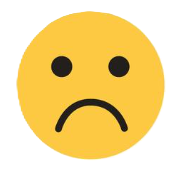
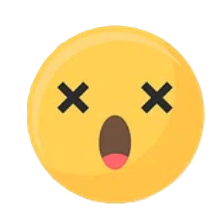
Second Draft
Fixed basic game bugs
Added mine count
Randomized mine placement

diff --git a/js/game.js b/js/game.js
@@ -4,12 +4,15 @@ var gDifficulties = [4, 8, 12]
 
 const MINE = '💣'
 const FLAG = '🏴☠'
+const LIFE = '💖'
 
-var gCellCount
+var gLivesCount
+var gMineCount
 
 // timer
 var gInterval
 var gStartTime
+var gIsRun
 
 var gLevel = {
     SIZE: gDifficulties[0],
@@ -18,6 +21,9 @@ var gLevel = {
 
 var gBoard
 var gGame
+const START_IMG = 'img/start.png'
+const LOSE_IMG = 'img/lose.png'
+const WIN_IMG = 'img/win.png'
 
 // Todo's:
 //need to find a boolean to define the startTimer
@@ -32,8 +38,10 @@ var gGame
 // add lives icon for starters
 
 function onInit() {
-    resetTimer()
-    console.log('Hi');
+    // console.log('Hi');
+    gLivesCount = 3
+    clearInterval(gInterval)
+    gMineCount = 0
     gGame = {
         isOn: true,
         shownCount: 0,
@@ -45,9 +53,27 @@ function onInit() {
 
     console.log('gBoard:', gBoard)
 
+    resetTimer()
 }
 
+// function onRestartGame() {
+//     // gLevel = {
+//     //     SIZE: gDifficulties[0],
+//     //     MINES: 2,
+//     // }
+//     gGame = {
+//         isOn: true,
+//         shownCount: 0,
+//         markedCount: 0,
+//         secsPassed: 0
+//     }
+//     gBoard = buildBoard(gLevel.SIZE)
+//     renderBoard(gBoard)
 
+//     console.log('gBoard:', gBoard)
+
+//     resetTimer()
+// }
 
 function buildBoard(size) {
     var board = []
@@ -62,44 +88,69 @@ function buildBoard(size) {
             }
         }
     }
-    placeMines(board)
-    // board[0][0].isMine = true
-    // board[3][3].isMine = true
+    for (var i = 0; i < gLevel.MINES; i++) {
+        // setTimeout((onCellClicked)=> placeMines(board)
+        // ,100)
+
+        placeMines(board)
+        updateMineCount(1)
+        
+        
+    }
+    updateLivesCount(0)
+
     return board
 }
 
 function placeMines(board) {
-    board[0][0].isMine = true
-    board[board.length - 1][board[0].length - 1].isMine = true
+    var randCell = getRandEmptyCell(board)
+
+    board[randCell.i][randCell.j].isMine = true
+    // board[0][0].isMine = true
 }
 
+
 function onCellClicked(elCell, i, j) {
+    // console.log('elCell:', elCell)
+    if (!gGame.isOn) return
+
     var cell = gBoard[i][j]
     var count = countNeighborMines(i, j, gBoard)
 
-    if (cell !== MINE) {
+    //Changing classname after clicking on cell:
+    // var className = cell.isMine ? 'mined' : 'safe'
+    // elCell.classList.remove('hidden')
+    // elCell.classList.add(className)
+    getClassName(elCell, cell)
+
+    //Starting the timer:
+    gIsRun = true
+    if (gIsRun) {
         startTimer()
-    } else if (cell === gCellCount) {
-        // clearInterval(gInterval)
+    } else {
+        gIsRun = false
+        clearTimeout(gInterval)
     }
 
-    elCell.classList.remove('hidden')
     if (!cell.isShown) {
         cell.isShown = true
         if (cell.isMine) {
+            updateLivesCount(-1)
+            console.log('gLivesCount',gLivesCount);
+            
             console.log('Game Over')
+            //Updating the Dom
             elCell.innerText = MINE
             gGame.isOn = false
-            return
+            document.querySelector('img').src = LOSE_IMG
         } else {
             console.log('count:', count)
             elCell.innerText = (count > 0) ? count : ''
+            openNeighbourCells(i, j)
             // renderBoard(gBoard)
         }
 
     }
-
-
 
 }
 
@@ -112,7 +163,7 @@ function onPlantFlag(ev) {
 }
 
 
-function blowUpNeighbors(cellI, cellJ) {
+function openNeighbourCells(cellI, cellJ) {
 
     for (var i = cellI - 1; i <= cellI + 1; i++) {
         if (i < 0 || i >= gBoard.length) continue
@@ -120,13 +171,32 @@ function blowUpNeighbors(cellI, cellJ) {
             if (i === cellI && j === cellJ) continue
             if (j < 0 || j >= gBoard[i].length) continue
             //Model
-            gBoard[i][j] = ''
+            if (!gBoard[i][j].isMine) {
 
-            //Dom
-            var elCell = renderCell(i, j, '')
-            elCell.classList.remove('.hidden')
+                gBoard[i][j].isShown = true
+
+                //Dom
+                var elCell = document.querySelector(`.cell-${i}-${j}`)
+                getClassName(elCell, gBoard[i][j])
+
+            }
         }
     }
+}
+
+function updateMineCount(diff) {
+    // if()
+    gMineCount += diff
+    document.querySelector('.mines').innerText = gMineCount
+}
+
+function updateLivesCount(diff) {
+    for (var i = 0; i < gLivesCount; i++) {
+        document.querySelector('.lives').innerText += LIFE
+        
+    }
+    gLivesCount += diff
+    // return gLivesCount
 }
 
 // function onCellMarked(coords) {
@@ -141,12 +211,18 @@ function blowUpNeighbors(cellI, cellJ) {
 // }
 
 function onDifficultyClick(elBtn) {
-    var cellCount = gDifficulties[elBtn.dataset.idx]
+    var difficulty = gDifficulties[elBtn.dataset.idx]
     elBtn.classList.add('clicked')
-    gBoard = buildBoard(cellCount)
+    gLevel.SIZE = difficulty
+    gLevel.MINES = difficulty / 2
+    gBoard = buildBoard(gLevel.SIZE)
     renderBoard(gBoard)
 
-    // onInit()
+    onInit()
 }
 
-
+function getClassName(elCell, cell) {
+    var className = cell.isMine ? 'mined' : 'safe'
+    elCell.classList.remove('hidden')
+    elCell.classList.add(className)
+}

diff --git a/js/util.js b/js/util.js
@@ -1,33 +1,78 @@
 'use strict'
 
 
+// function renderBoard(board) {
+
+//     var strHTML = '<table><tbody>'
+//         for (var i = 0; i < board.length; i++) {
+//         strHTML += '<tr>'
+
+//         for (var j = 0; j < board[0].length; j++) {
+//             var cell = board[i][j]
+//             var className = cell.isMine ? 'mined' : 'safe'
+//             var cellContent = !cell.isShown ? '' : (cell.isMine ? MINE : cell.minesAroundCount)
+//             strHTML += `<td data-i="${i}"data-j="${j}"onClick="onCellClicked(this,${i}, ${j})" class =" hidden ${className}">${cellContent}</td>`
+//         }
+
+//         strHTML += '</tr>'
+//     }
+//     strHTML += '</tbody></table>'
+
+//     var elBoard = document.querySelector('.playing-board')
+//     elBoard.innerHTML = strHTML
+// }
+
+
 function renderBoard(board) {
-
+    document.querySelector('img').src = START_IMG
     var strHTML = '<table><tbody>'
-        for (var i = 0; i < board.length; i++) {
+    for (var i = 0; i < board.length; i++) {
+
         strHTML += '<tr>'
-
         for (var j = 0; j < board[0].length; j++) {
-            var cell = board[i][j]
-            var className = cell.isMine ? 'mined' : 'safe'
-            var cellContent = !cell.isShown ? '' : (cell.isMine ? MINE : cell.minesAroundCount)
-            strHTML += `<td data-i="${i}"data-j="${j}"onClick="onCellClicked(this,${i}, ${j})" class =" hidden ${className}">${cellContent}</td>`
-        }
 
+            const cell = board[i][j]
+            // const className = `cell cell-${i}-${j}`
+            // var className = cell.isMine ? 'mined' : 'safe'
+            var cellContent = !cell.isShown ? '' : (cell.isMine ? MINE : cell.minesAroundCount)
+            var location = `cell-${i}-${j}`
+            strHTML += `<td class=" ${location} hidden" onClick="onCellClicked(this,${i}, ${j})">${cellContent}</td>`
+           
+        }
         strHTML += '</tr>'
     }
     strHTML += '</tbody></table>'
+    
+    const elContainer = document.querySelector('.playing-board')
+    elContainer.innerHTML = strHTML
+}
 
-    var elBoard = document.querySelector('.playing-board')
-    elBoard.innerHTML = strHTML
+function getRandEmptyCell(board) {
+
+    const emptyCells = []
+
+    for (var i = 0; i < board.length; i++) {
+        for (var j = 0; j < board[i].length; j++) {
+
+            var cell = board[i][j]
+            if (!cell.isMine) {
+                emptyCells.push({ i, j })
+            }
+        }
+    }
+    // if (!emptyCells.length) return null
+    var randIdx = getRandomIntInclusive(0, emptyCells.length - 1)
+    var randomCell = emptyCells[randIdx]
+
+    return randomCell
 }
 
 // location is an object like this - { i: 2, j: 7 }
-function renderCell(i, j, value) {
-    var elCell = document.querySelector(`[data-i="${i}"][data-j="${j}"]`)
-    elCell.innerText = value
-    return elCell
-} 
+function renderCell(location, value) {
+    // Select the elCell and set the value
+    var elCell = document.querySelector(`.cell-${location.i}-${location.j}`)
+    elCell.innerHTML = value
+}
 
 // function getSelector(coord) {
 //     return `#cell-${coord.i}-${coord.j}`
@@ -35,16 +80,16 @@ function renderCell(i, j, value) {
 
 
 function countNeighborMines(cellI, cellJ, board) {
-	var mineCount = 0
-	for (var i = cellI - 1; i <= cellI + 1; i++) {
-		if (i < 0 || i >= board.length) continue
-		for (var j = cellJ - 1; j <= cellJ + 1; j++) {
-			if (i === cellI && j === cellJ) continue
-			if (j < 0 || j >= board[i].length) continue
-			if (board[i][j].isMine) mineCount++
-		}
-	}
-	return mineCount
+    var mineCount = 0
+    for (var i = cellI - 1; i <= cellI + 1; i++) {
+        if (i < 0 || i >= board.length) continue
+        for (var j = cellJ - 1; j <= cellJ + 1; j++) {
+            if (i === cellI && j === cellJ) continue
+            if (j < 0 || j >= board[i].length) continue
+            if (board[i][j].isMine) mineCount++
+        }
+    }
+    return mineCount
 }
 
 function startTimer() {
@@ -52,14 +97,14 @@ function startTimer() {
     gStartTime = Date.now()
     // gIsRun = true
     gInterval = setInterval(updateTimer, 1)
-    
+
 }
 
 function resetTimer() {
-    clearInterval(gInterval)
     var elTimer = document.querySelector('.timer')
-    elTimer.innerHTML = '00:00 '
+    elTimer.innerHTML = '00:00'
     gStartTime = 0
+
     gInterval = 0
 
 }

diff --git a/index.html b/index.html
@@ -20,7 +20,7 @@
         <button data-idx="2" class="diff" onclick="onDifficultyClick(this)">Hard</button>
     </div>
     <div class="specs">
-        Timer: <span class="timer"> </span> | Mines: <span class="mines"></span>| Lives:<span class="lives"></span>
+        Timer: <span class="timer"> </span> | Mines: <span class="mines"></span> | Lives:<span class="lives"></span>
  </div>
     
     
